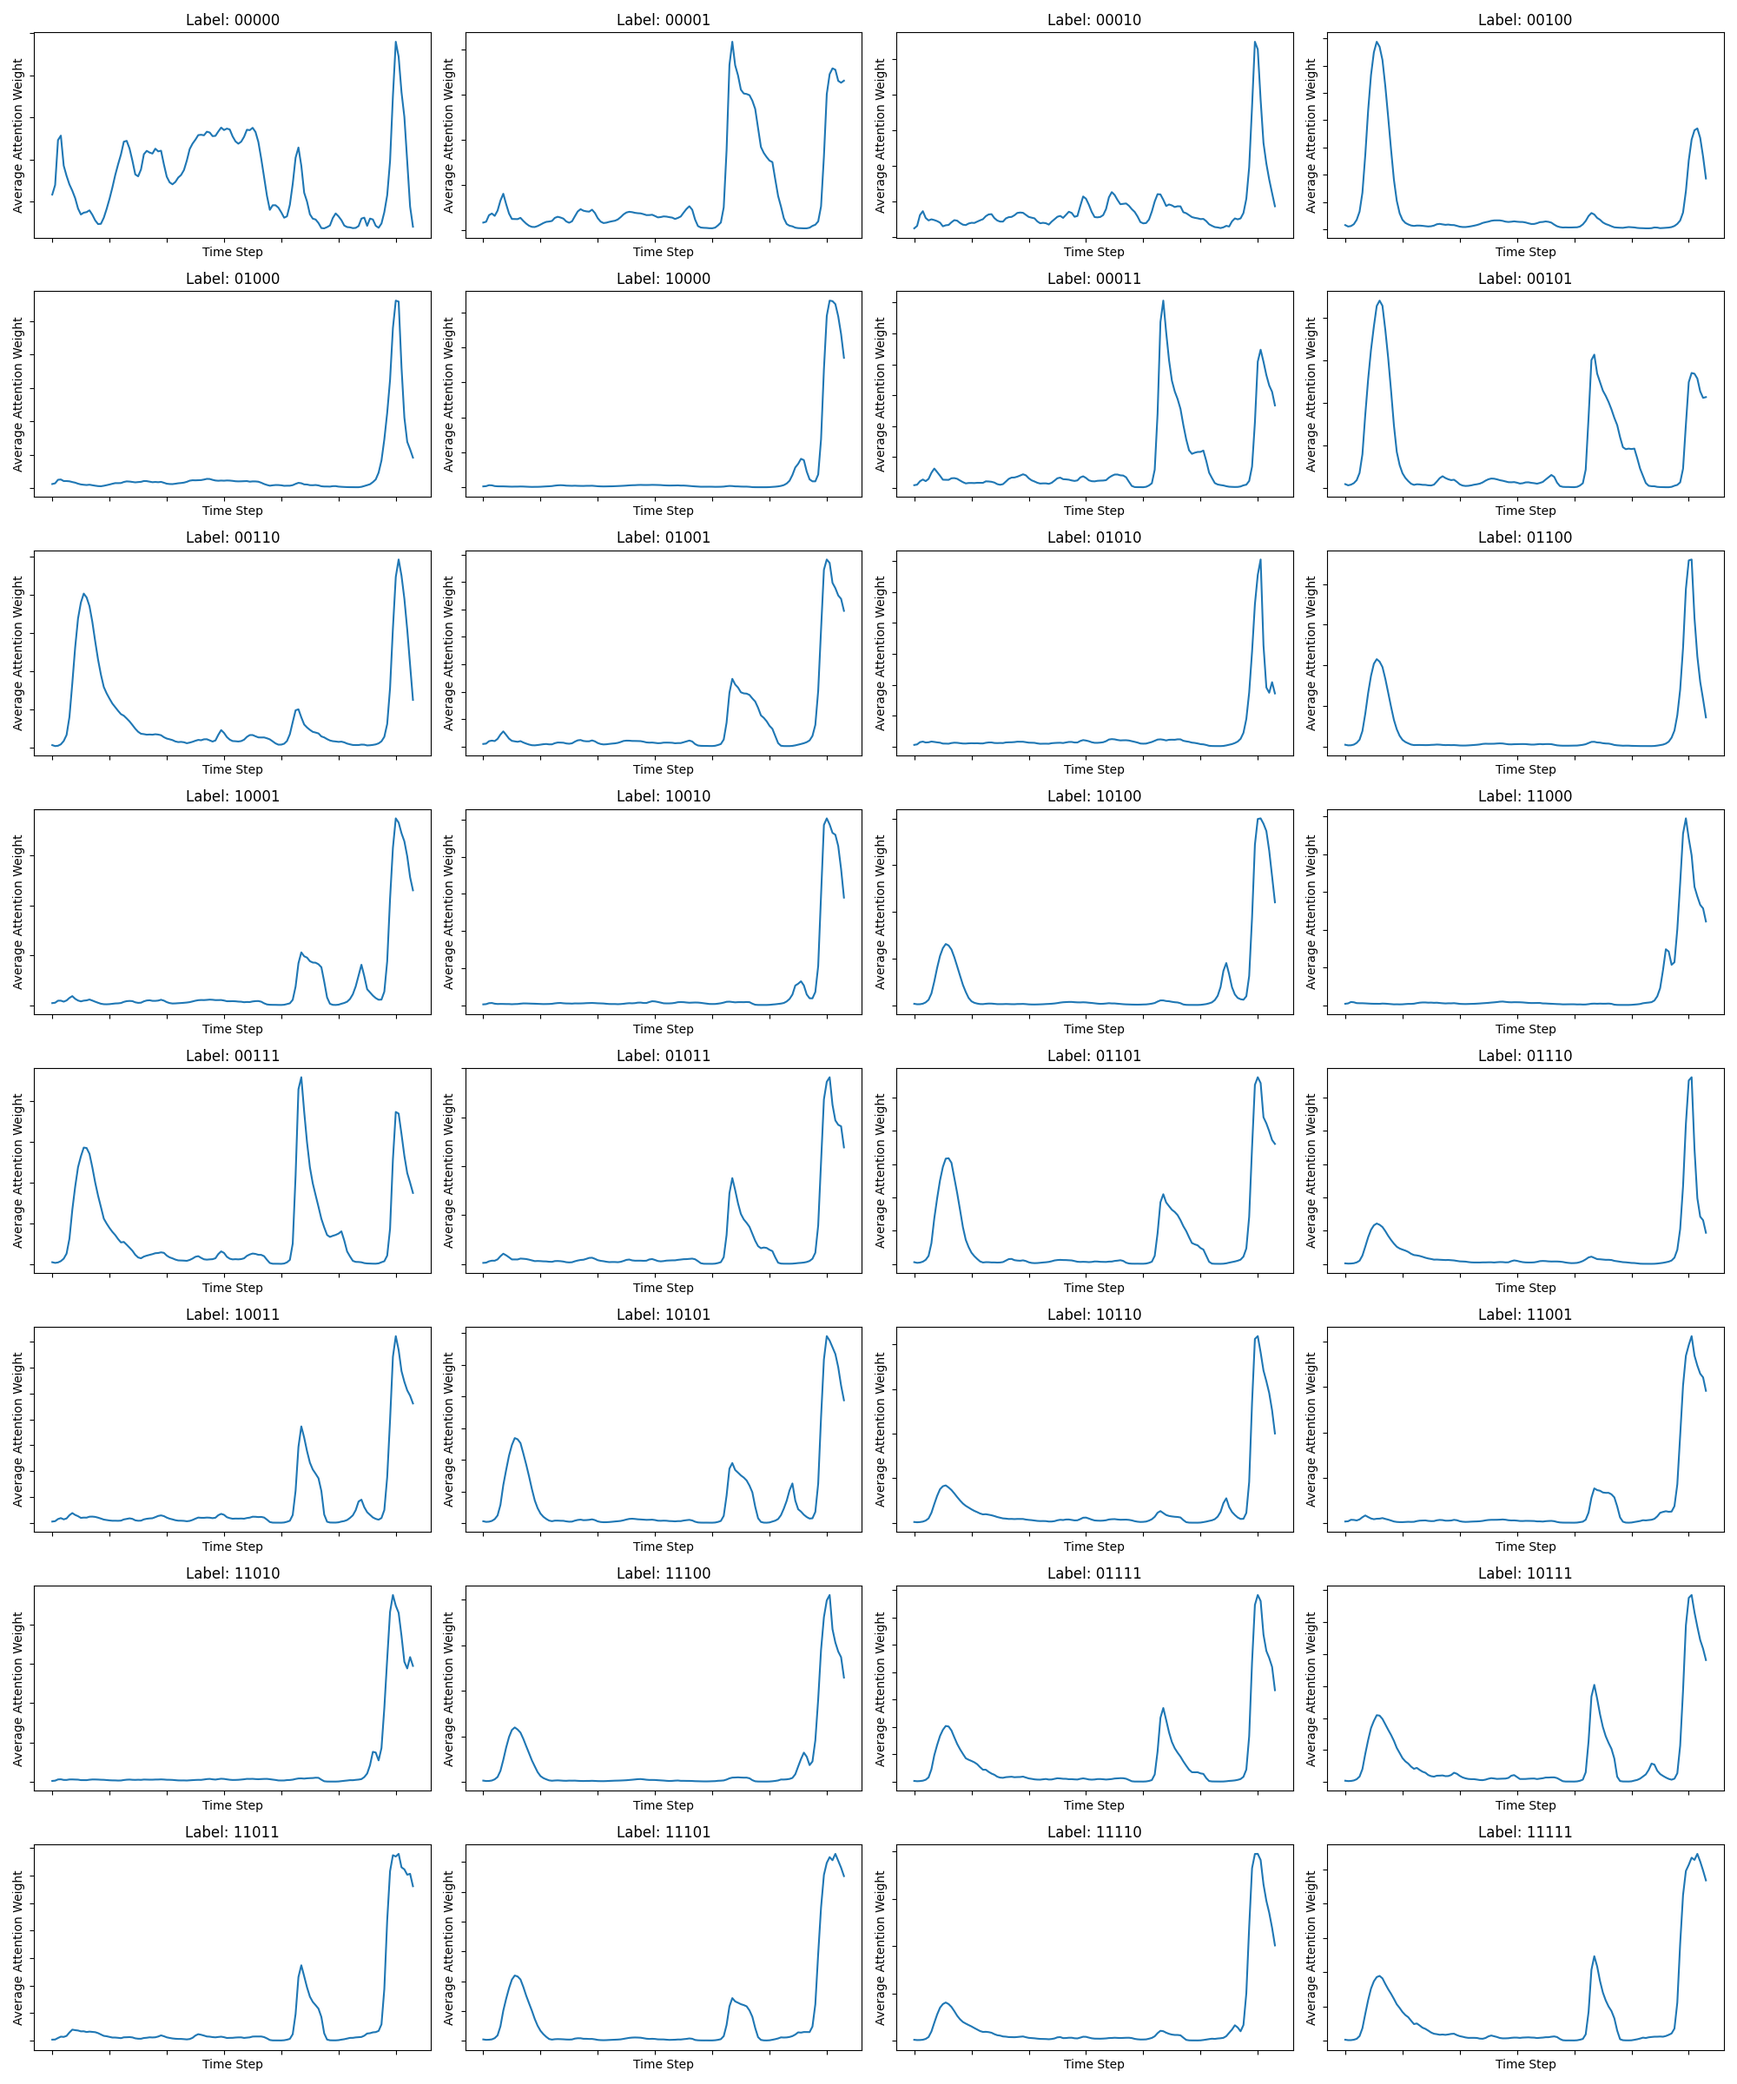
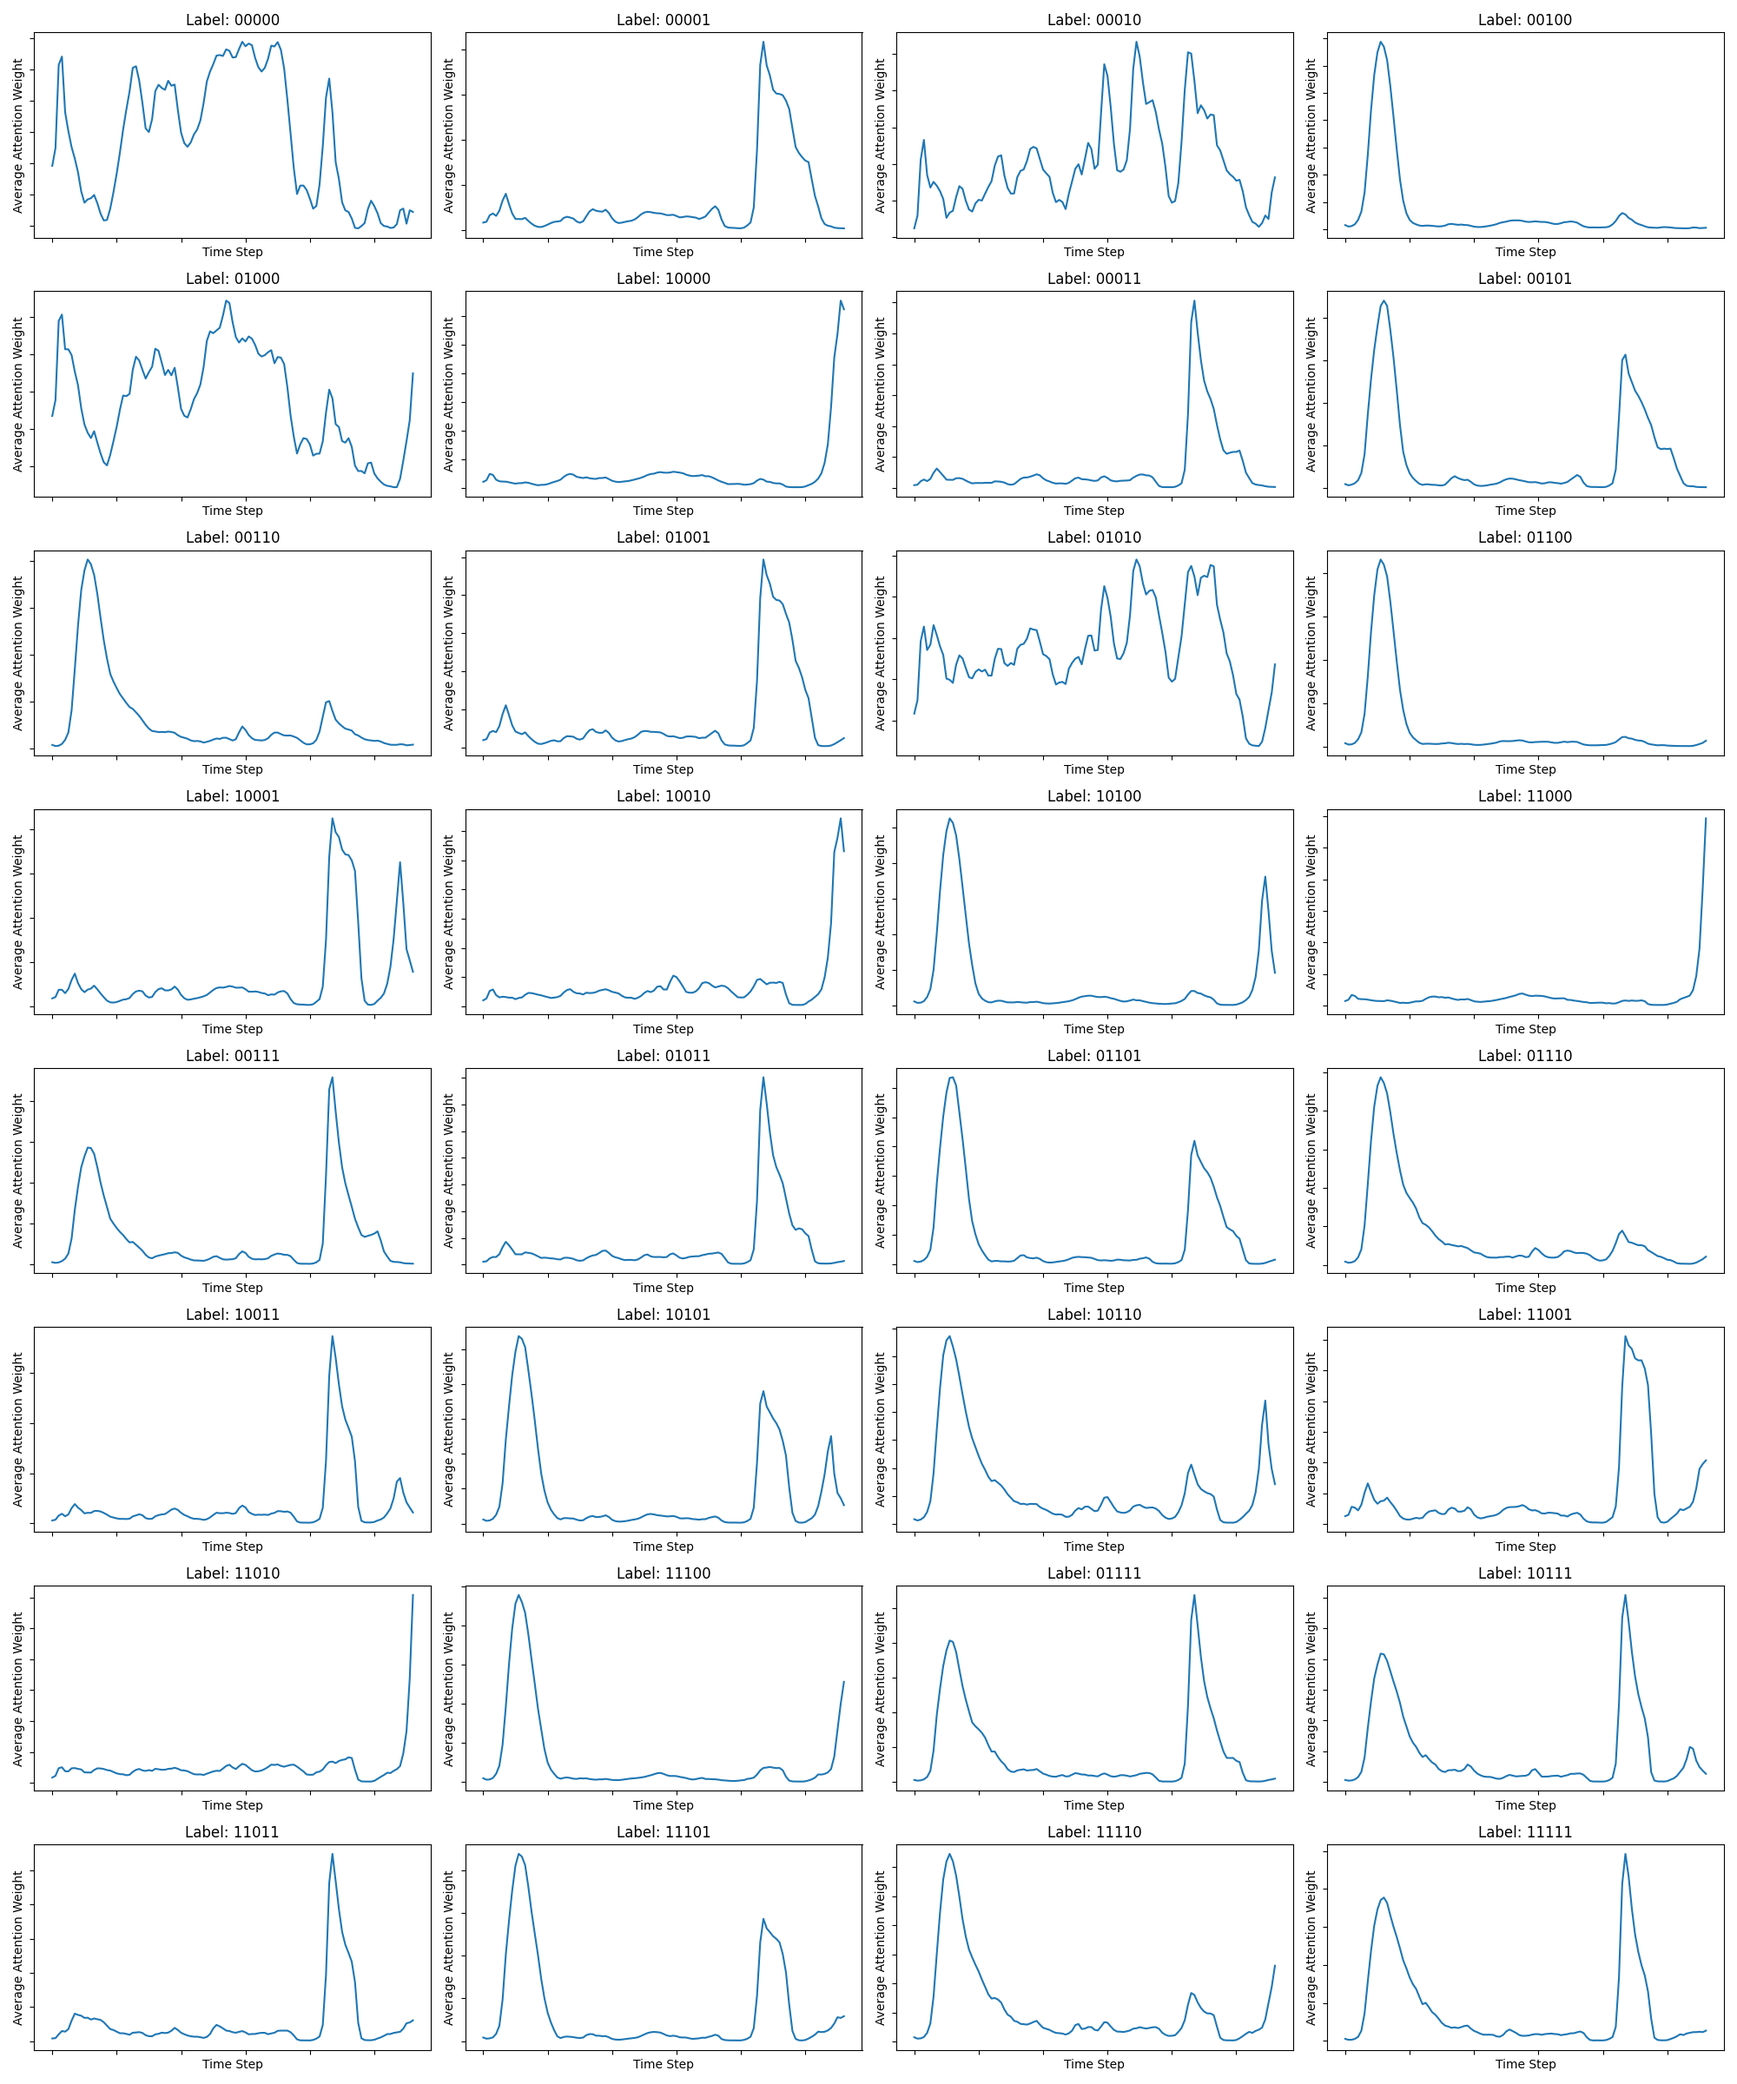
projectI dl

diff --git a/Deep-Learning/Project I/evals/evaluate_attention.py b/Deep-Learning/Project I/evals/evaluate_attention.py
@@ -13,7 +13,7 @@ from train import set_seed
 
 def load_checkpoint(checkpoint_path, config):
     """Load model and optimizer from a checkpoint."""
-    checkpoint = torch.load(checkpoint_path)
+    checkpoint = torch.load(checkpoint_path, map_location=torch.device('cpu'))
     model = HomeBrewRNNAttention(
         hidden_size=config.hidden_size, 
         num_layers=config.num_layers, 
@@ -106,7 +106,7 @@ def main(cfg: OmegaConf):
     all_attn_weights = dict(sorted(all_attn_weights.items(), key=lambda x: (sum([int(i) for i in x[0]]), x[0])))
 
 
-    fig = plot_small_multiples(all_attn_weights, exclude_last=1)
+    fig = plot_small_multiples(all_attn_weights, exclude_last=15)
     fig.savefig("charts/small_multiples.png")
 
 

diff --git a/Deep-Learning/Project I/README.md b/Deep-Learning/Project I/README.md
@@ -1,0 +1,20 @@
+# Project I
+Samuel Janas (151927)
+
+## Preprocessing
+In `data/generate_data.py` you can find the code to generate the data. The data is generated using the `generate_data` function. The function takes the number of samples as an argument, and creates a split of 80% training data and 20% test data.
+
+To make sure that the input is consistent, we're adding the paddding to the input, each input is padded with 0's to the length of the longest input.
+
+## Dependencies
+As mentioned in the task, the problem is rather simple. To showcase my skills, I've used PyTorch (see `train.py` and `train_RCA.py` for training loops). The model uses configurable hyperparameters, they can be found in `config/train.yaml` - I'm using Hydra to manage the configuration. The model is defined in `model/HomeBrewRNN.py`.
+
+## Results
+The model trained for ~7 epochs achieves over 99% accuracy on the test set. It can be improved further by either training for more time or tweaking the hyperparameters.
+run `python -m evals.evaluate` to evaluate the model.
+
+As for the RCA. I had no pair for this project and couldn't consult if my idea was correct. Here's the plot and my understanding behind it:
+![RCA](charts/small_multiples.png)
+The chart here shows the values from attention block that I've put in the model. You can find the details in `evals/evaluate_attention.py`. I'm showing the values for each combination of classes. The higher the value, the more the model is paying attention to the given interval, this way we can see what is important for each defect.
+
+
